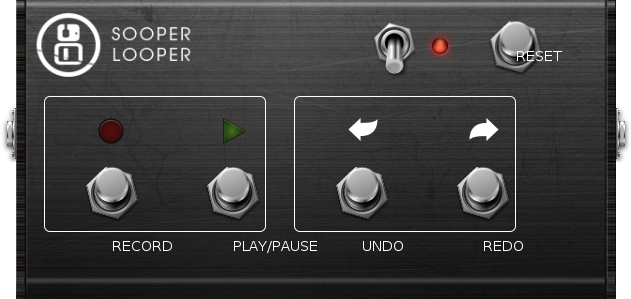
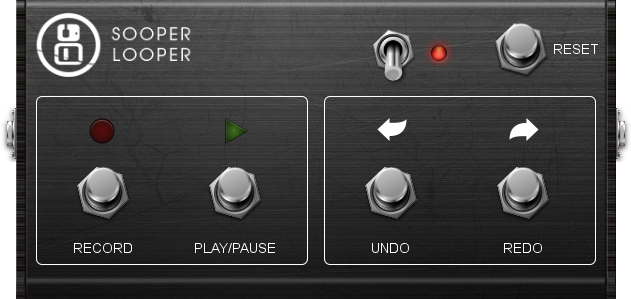
Change CSS to work around phantomjs' flaws; new screenshot and thumbnail

diff --git a/sooperlooper/src/modgui/sooperlooper.css b/sooperlooper/src/modgui/sooperlooper.css
@@ -19,23 +19,32 @@
     .mod-sooperlooper .mod-controls {
         position: absolute;
         top: 32%;
-        left: 1em;
-        right: 1em;
-        bottom: 2em;
+        left: 20px;
+        right: 20px;
+        bottom: 35px;
     }
     
     .mod-sooperlooper .mod-control-group {
         border: 1px solid white;
         border-radius: 6px;
-        width: calc(50% - 2em);
-        height: calc(100%);
-        margin: 0 1em !important;
-        display: inline-block;
-        box-sizing: border-box;
+        position: absolute;
     }
     .mod-sooperlooper .mod-control-group.top {
-        margin-left: calc(50%) !important;
         border: 1px solid transparent;
+        top: 6px;
+        right: 0;
+    }
+    .mod-sooperlooper .mod-control-group.left {
+        top: 0;
+        left: 0;
+        bottom: 0;
+        width: calc(50% - 10px);
+    }
+    .mod-sooperlooper .mod-control-group.right {
+        top: 0;
+        right: 0;
+        bottom: 0;
+        width: calc(50% - 10px);
     }
     .mod-sooperlooper-2 .mod-pedal-input {
         top:124px;
@@ -50,29 +59,32 @@
     }
     .mod-sooperlooper .mod-control-group .mod-control {
         display: inline-block;
-        width: 64px;
+        width: 132px;
         height: 128px;
-        margin-left: 35px;
+        text-align: center;
     }
     .mod-sooperlooper .mod-control-group .mod-control:nth-child(2) {
-        margin-left: 53px;
     }
     .mod-sooperlooper .mod-control-group .mod-control-image::after {
         color: white;
         content: "";
         position: absolute;
         top: 110%;
-        left: 50%;
-        transform: translate(-50%, 0);
+        left: 0;
+        right: 0;
+        text-align: center;
     }
     
     .mod-sooperlooper .mod-control-image {
         z-index: 2000000;
         position: relative;
-        width: 64px;
+        width: 100%;
         height: 128px;
         cursor: pointer;
         color: white;
+        margin: auto;
+        background-position-x: center;
+        background-repeat: no-repeat;
     }
     .mod-sooperlooper .mod-control-image#undo {
         background-image:url(/resources/foot-undo.png{{{ns}}});
@@ -106,15 +118,17 @@
         cursor: pointer;
         z-index: 2000000;
         position: absolute;
-        top: 15px;
-        right: 68px;
+        top: 10px;
+        right: 62px;
     }
     .mod-sooperlooper .mod-control-image#reset::after {
         content: "RESET";
         position: absolute;
-        right: 0px;
-        top: 50%;
-        transform: translate(100%, -50%);
+        left: 100%;
+        top: 0;
+        bottom: 0;
+        height: 64px;
+        line-height: 64px;
         color: white;
     }
     .mod-sooperlooper .mod-footswitch{

diff --git a/sooperlooper/src/modgui/sooperlooper.html b/sooperlooper/src/modgui/sooperlooper.html
@@ -15,15 +15,13 @@
         <div class="mod-control-group left">
             <div class="mod-control">
                 <div class="mod-control-image" id="rec" mod-role="input-control-port" mod-port-symbol="record" mod-widget="switch"></div>
-            </div>
-            <div class="mod-control">
+            </div><div class="mod-control">
                 <div class="mod-control-image" id="play" mod-role="input-control-port" mod-port-symbol="play_pause" mod-widget="switch"></div>
             </div>
         </div><div class="mod-control-group right">
             <div class="mod-control">
                 <div class="mod-control-image" mod-role="input-control-port" mod-port-symbol="undo" id="undo" mod-widget="switch"></div>
-            </div>
-            <div class="mod-control">
+            </div><div class="mod-control">
                 <div class="mod-control-image" mod-role="input-control-port" mod-port-symbol="redo" id="redo" mod-widget="switch"></div>
             </div>
         </div>
